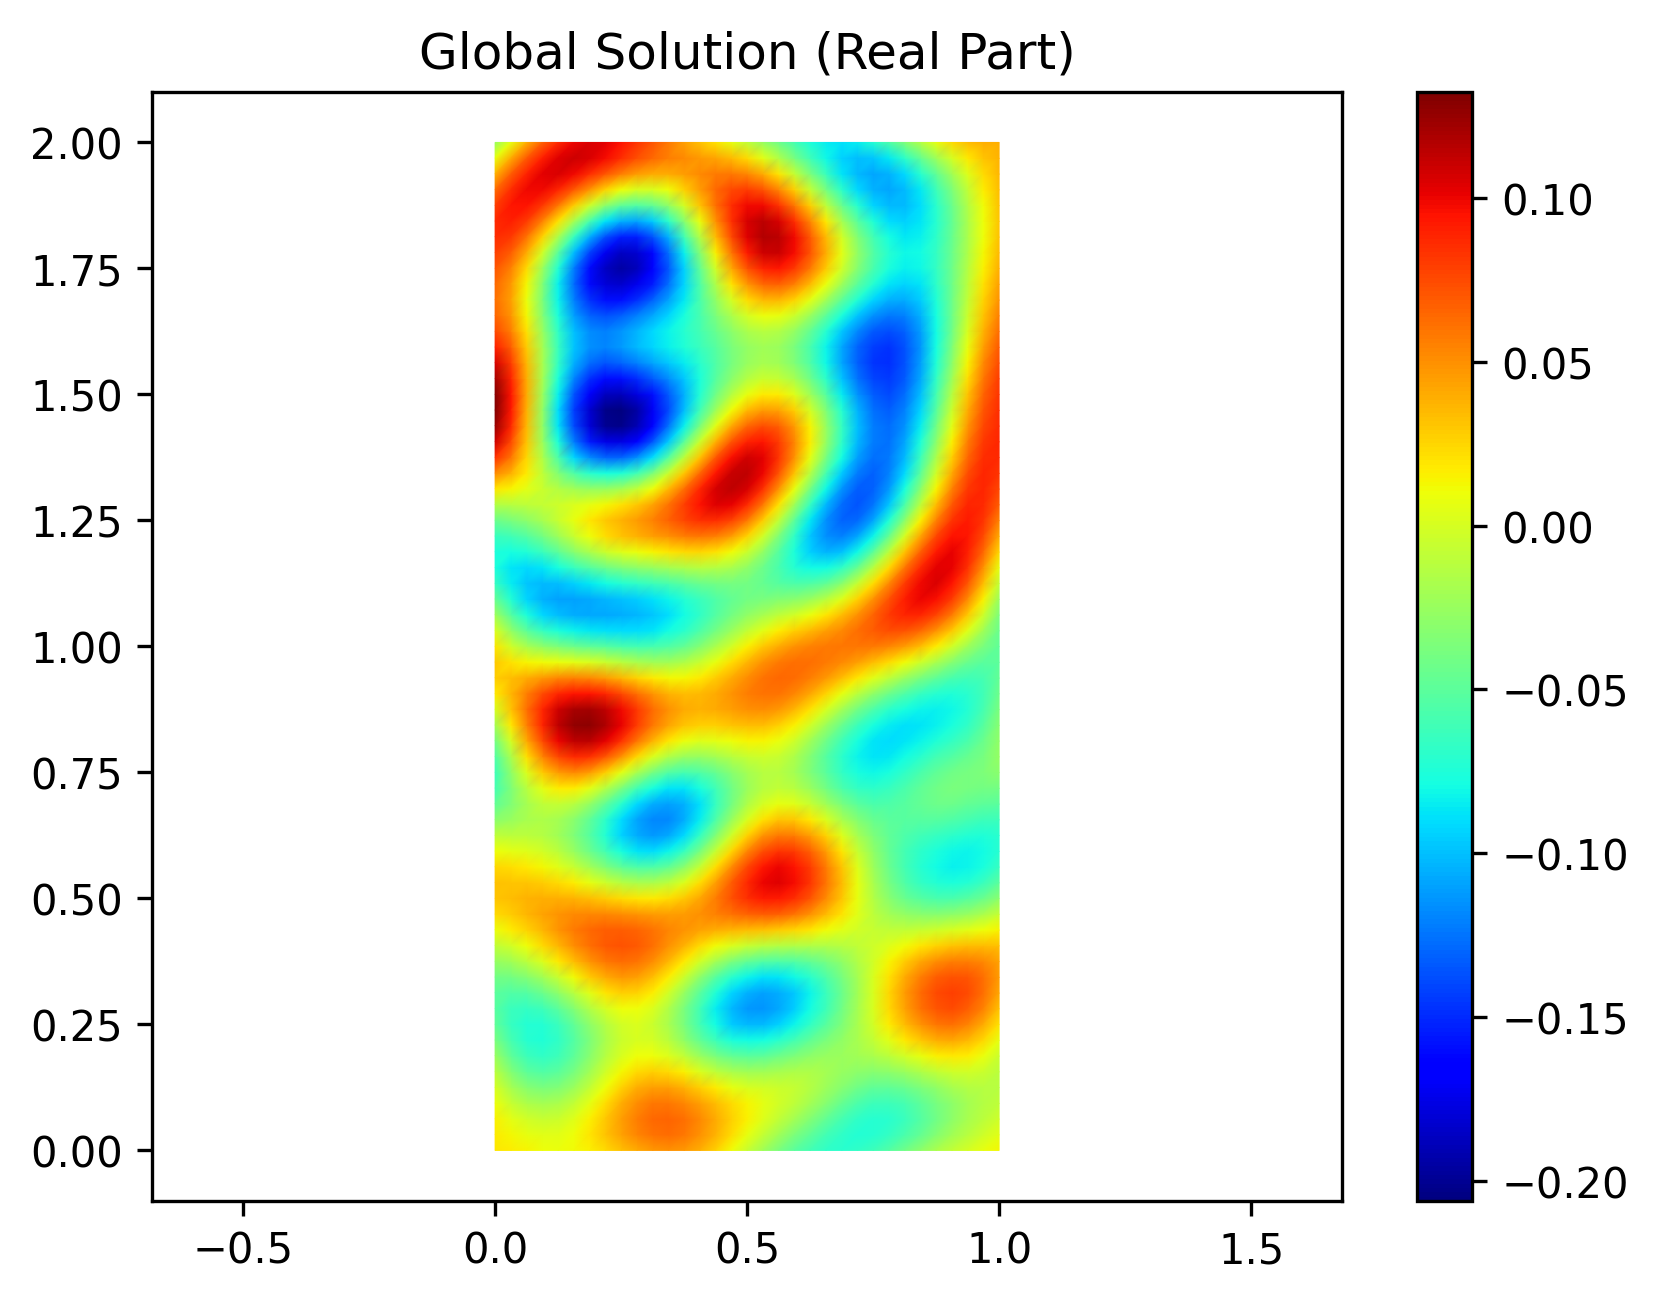
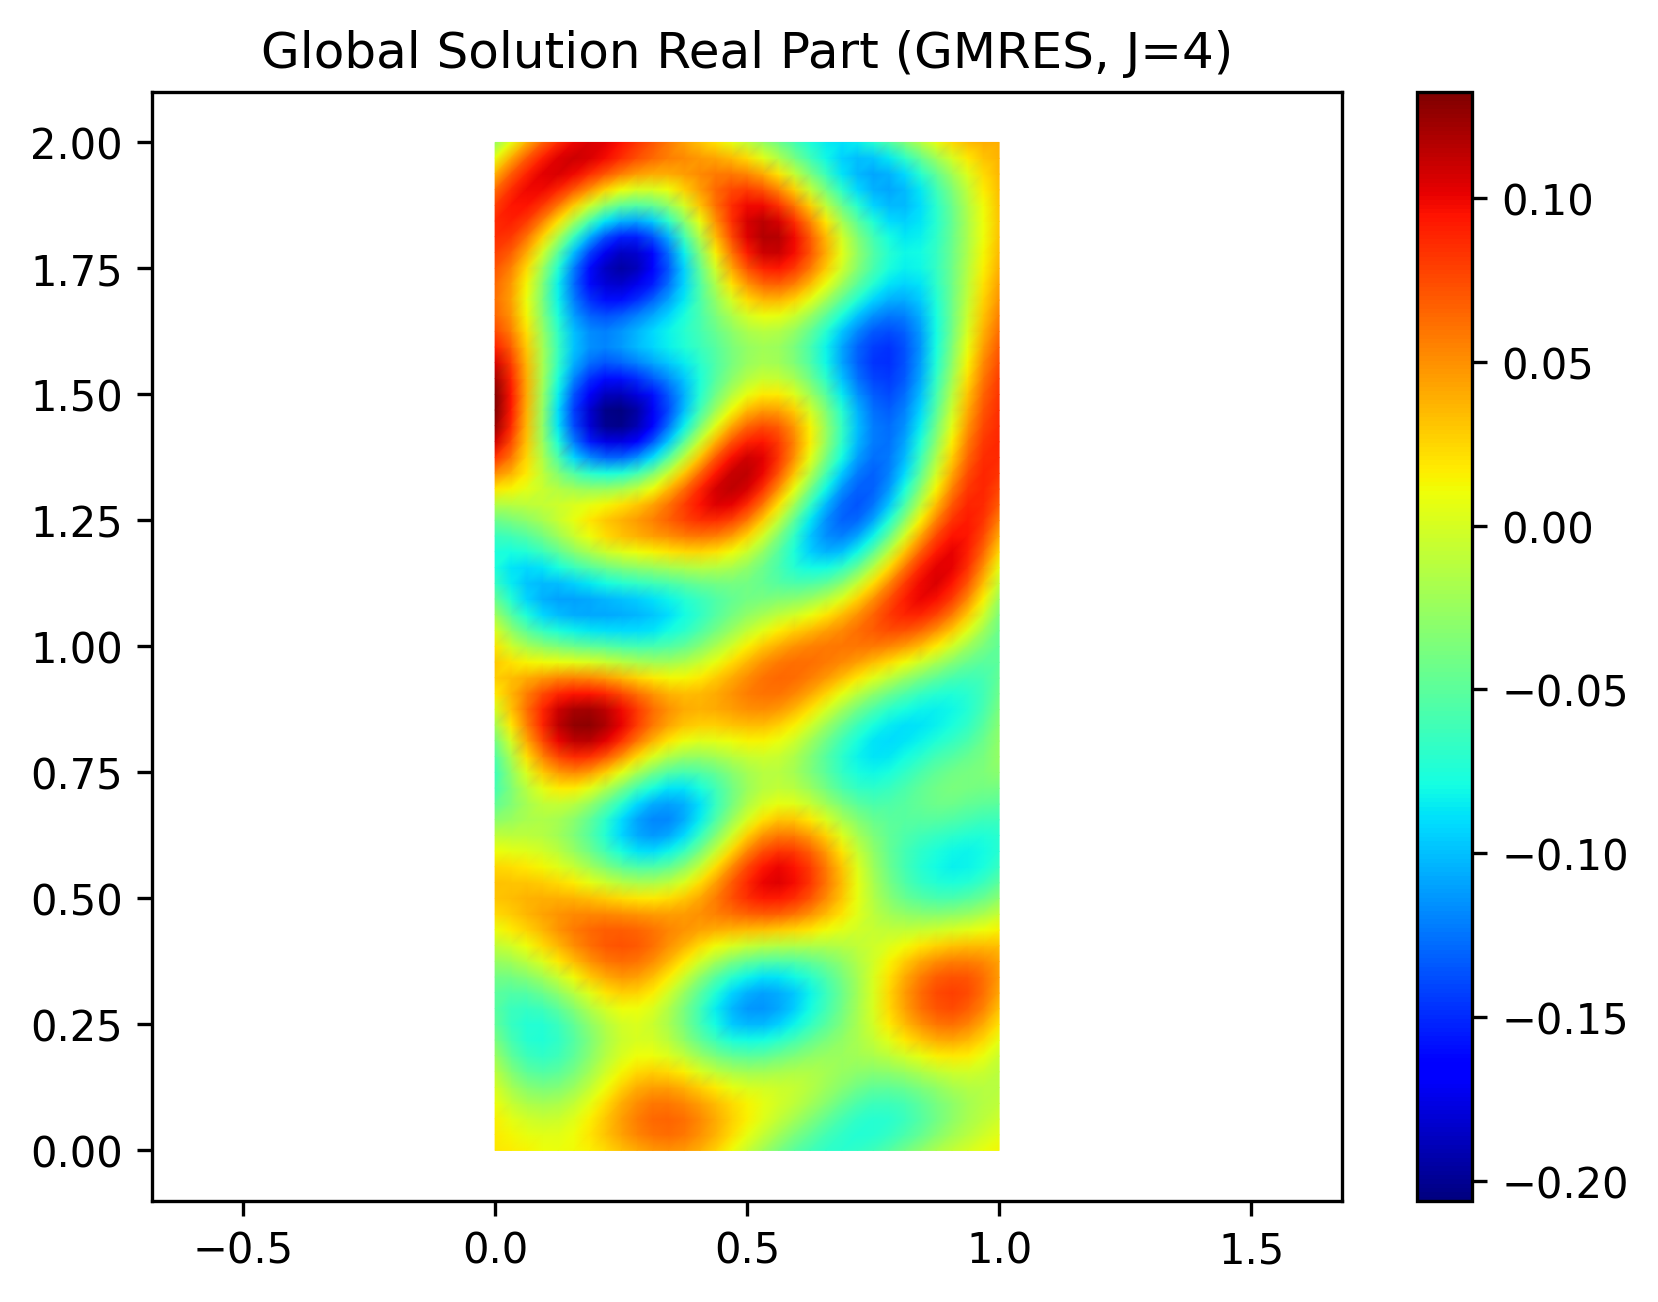
added GMRES solver for parallel version

Changed region(s): [[0.1538, 0.0, 0.7382, 0.0614]]

diff --git a/project2/main_parallel.py b/project2/main_parallel.py
@@ -315,48 +315,87 @@ if __name__ == "__main__":
     Sj_fact = Sj_factorization(Aj, Tj, Bj)
     bj = bj_vector(vtx_loc, elt_loc, sp, k)
 
-    #  Construct Global/Parallel Operators
+    # 2. Construct Global/Parallel Operators
     g = g_vector(nx, ny, J, Bj, Cj, bj, Sj_fact)
-
     I_PIS = interface_operator(nx, ny, J, Bj, Tj, Cj, Sj_fact)
 
-    # Solver (Fixed Point)
     global_interface_size = 2 * nx * (J - 1)
     starting_sol = np.zeros(global_interface_size, dtype=np.complex128)
 
+    # ---------------------------------------------------------
+    # Solver: Fixed Point
+    # ---------------------------------------------------------
     comm.Barrier()
-    t0 = time.perf_counter()
+    t0_fp = time.perf_counter()
 
+    # Run Fixed Point
     interf_sol_fp, residuals_fp = fixed_point(0.5, starting_sol, g, I_PIS)
 
     comm.Barrier()
-    tfp = time.perf_counter() - t0
+    tfp = time.perf_counter() - t0_fp
 
-    # 4. Recover Local Solution
-    u_local = uj_solution(Sj_fact, Bj, Cj, Tj, bj, interf_sol_fp, J)
+    # ---------------------------------------------------------
+    # Solver: GMRES
+    # ---------------------------------------------------------
+    # Prepare callback to store residuals for plotting
+    res_gmres = []
 
-    # 5. Gather and Plot (Rank 0 only)
+    def gmres_callback(rk):
+        res_gmres.append(rk)
+
+    comm.Barrier()
+    t0_gmres = time.perf_counter()
+
+    # Solve using scipy GMRES with the LinearOperator
+    # restart=30 is standard; maxiter is the max number of restarts * restart size
+    sol_gmres, info = spla.gmres(
+        I_PIS,
+        g,
+        x0=starting_sol,
+        rtol=1e-8,
+        atol=0,
+        restart=30,
+        maxiter=500,
+        callback=gmres_callback,
+    )
+    comm.Barrier()
+    t_gmres = time.perf_counter() - t0_gmres
+
+    # ---------------------------------------------------------
+    # Recover Local Solution (Using GMRES result)
+    # ---------------------------------------------------------
+
+    u_local = uj_solution(Sj_fact, Bj, Cj, Tj, bj, sol_gmres, J)
+
+    # Gather Global Solution
     u_final = u_global_gather(nx, ny, J, u_local, rank)
 
     if rank == 0:
-        print(f"Parallel Fixed Point Converged in {len(residuals_fp)} iterations.")
-        print(f"Elapsed time (MPI size {J}): {tfp*1000:.2f} ms")
+        print(f"--- Results (MPI Size {J}) ---")
+        print(f"Fixed Point: {len(residuals_fp)} iterations, {tfp:.4f} s")
+        print(
+            f"GMRES:       {len(res_gmres)} iterations, {t_gmres:.4f} s (Info: {info})"
+        )
 
-        # Plot Residuals
+        # Plot Residuals Comparison
         plt.figure()
-        plt.semilogy(residuals_fp)
+        plt.semilogy(residuals_fp, label="Fixed Point ($\\omega=0.5$)")
+        plt.semilogy(res_gmres, label="GMRES")
         plt.xlabel("Iteration")
-        plt.ylabel("Residual")
-        plt.grid(True, which="both")
-        plt.title(f"Parallel FP Residuals (J={J})")
-        plt.savefig("residualsFP_MPI.png", dpi=300, bbox_inches="tight")
+        plt.ylabel("Residual Norm (Relative)")
+        plt.grid(True, which="both", linestyle="--")
+        plt.legend()
+        plt.title(f"Convergence Comparison (J={J})")
+        plt.savefig("comparison_residuals.png", dpi=300, bbox_inches="tight")
         plt.close()
+        print("Saved convergence plot to 'comparison_residuals.png'")
 
         # Plot Solution Real Part
         vtx_global, elt_global = mesh(nx, ny, Lx, Ly)
         plt.figure()
         plot_mesh(vtx_global, elt_global, np.real(u_final))
         plt.colorbar()
-        plt.title("Global Solution (Real Part)")
+        plt.title(f"Global Solution Real Part (GMRES, J={J})")
         plt.savefig("solution_real_MPI.png", dpi=300, bbox_inches="tight")
         plt.close()
+        print("Saved solution plot to 'solution_real_MPI.png'")
